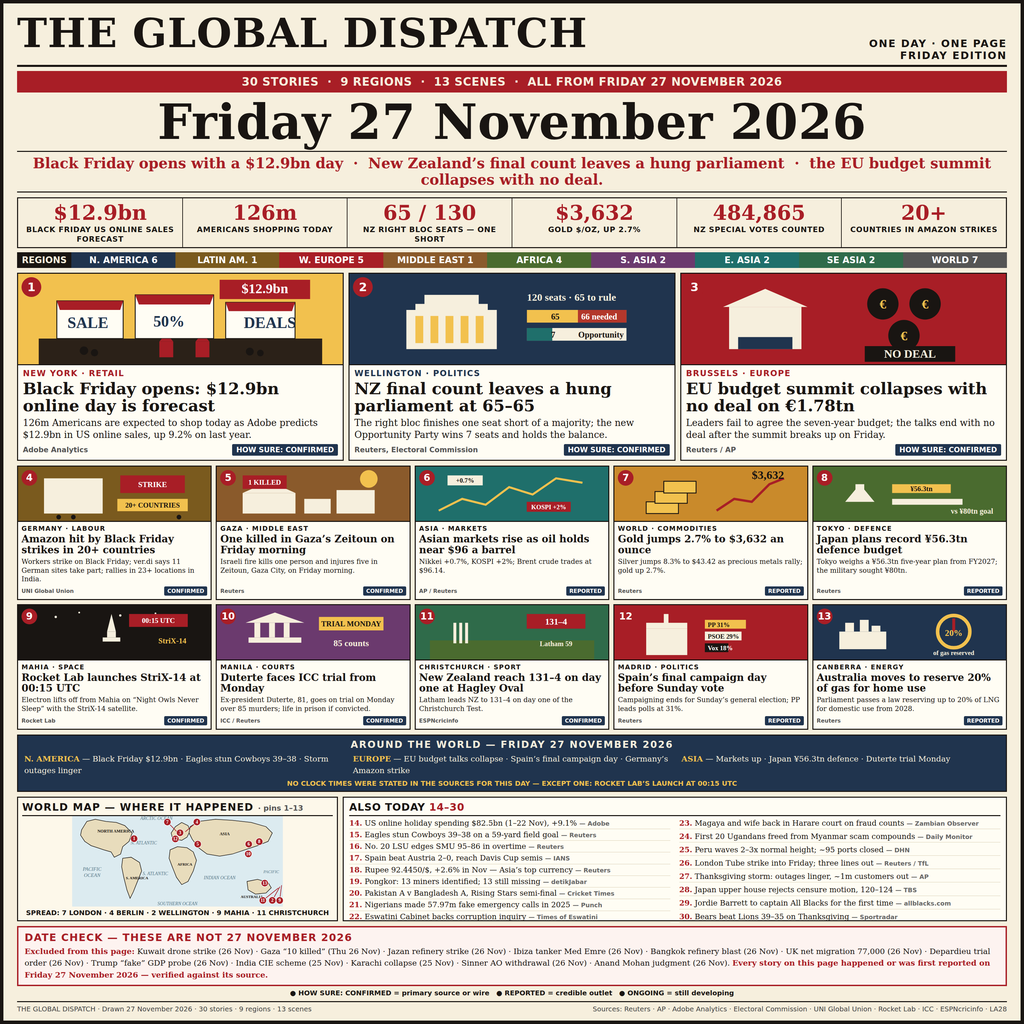
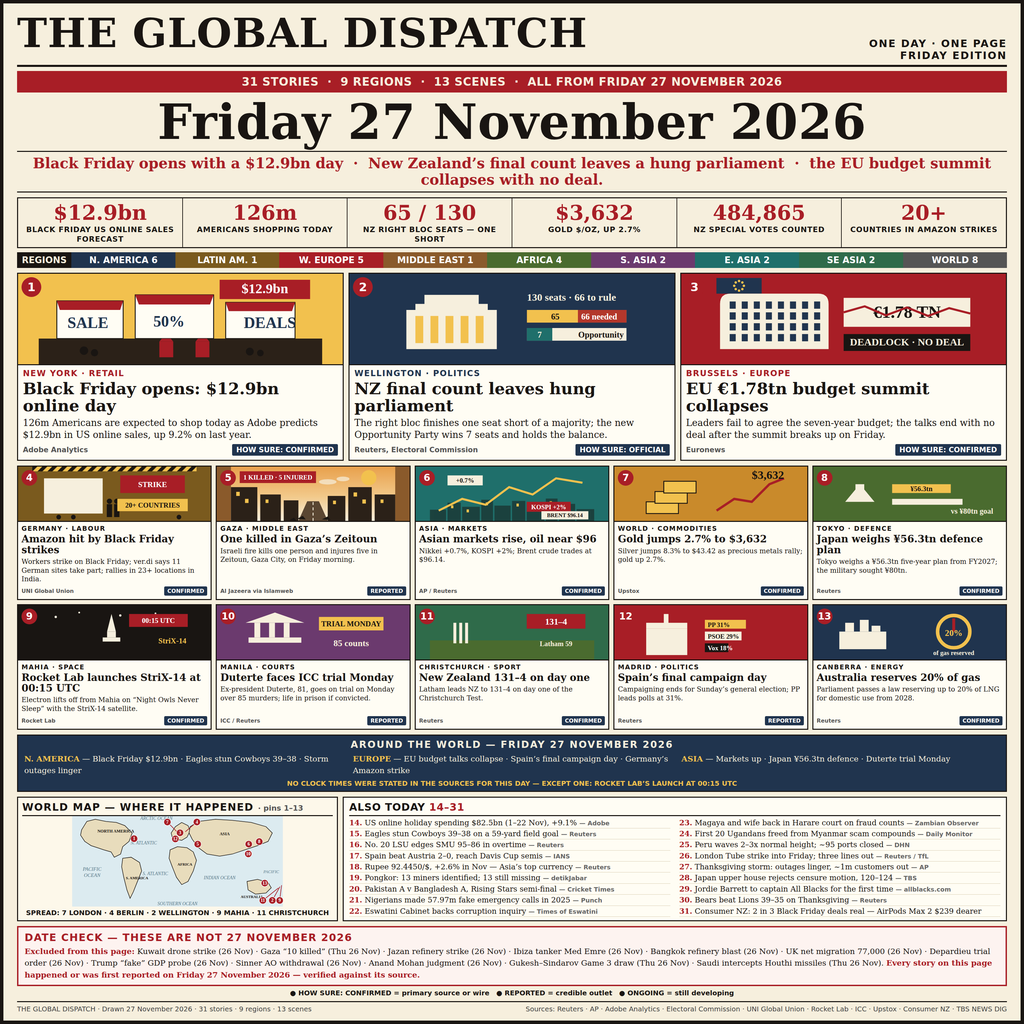
THE GLOBAL DISPATCH — Friday 27 November 2026: 31 stories, 9 regions, 13 scenes (v4.1.0)
- NZ final count corrected: 65 of 130, 66 to rule (was 65-65 / 120 seats)
- All 13 headlines within 8-word cap; chips/sources match ledger
  (EU Euronews, Gaza Al Jazeera via Islamweb, gold Upstox, cricket Reuters)
- Scenes 3/4/5/6 art sharpened (Berlaymont + cracked EUR 1.78 TN, hazard
  tape + workers, Gaza dawn street, markets skyline)
- +1 verified story: Consumer NZ Black Friday findings (ALSO 31)
- Ledger frozen v4.1.0: swaps A/B (URLs n=28, n=30), +6 rejected items
- ALSO overflow + scene-2 label fixed after visual QC

diff --git a/README.md b/README.md
@@ -12,11 +12,11 @@ competition "Sum up 27 November's world news in one image".
 
 ## What is on the page
 
-- **30 stories · 9 regions · 13 scenes** — every story happened or was first
+- **31 stories · 9 regions · 13 scenes** — every story happened or was first
   reported on Friday 27 November 2026, verified against its source.
 - **Three leads:** Black Friday opens with a forecast $12.9bn US online day;
-  New Zealand's final count leaves a hung parliament at 65–65; the EU budget
-  summit collapses with no deal on €1.78tn.
+  New Zealand's final count leaves a hung parliament (65 of 130, one short
+  of a majority); the EU budget summit collapses with no deal on €1.78tn.
 - **Ten more drawn scenes:** the Amazon Black Friday strikes in 20+ countries,
   the Gaza Zeitoun strike, Asian markets, gold at $3,632, Japan's ¥56.3tn
   defence plan, Rocket Lab's StriX-14 launch at 00:15 UTC, the Duterte ICC
@@ -44,8 +44,8 @@ deterministic: two runs produce byte-identical output.
 ## Sources
 
 Reuters, AP, Adobe Analytics, the New Zealand Electoral Commission,
-UNI Global Union, Rocket Lab, the ICC, ESPNcricinfo, and the outlets named
-on the page and in `traceability-ledger.json`.
+UNI Global Union, Rocket Lab, the ICC, Upstox, Consumer NZ, TBS NEWS DIG,
+and the outlets named on the page and in `traceability-ledger.json`.
 
 ## License
 
